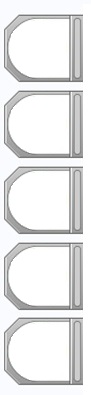
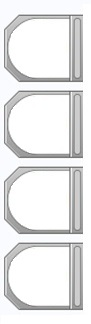
5个loadport变4个改动

Changed region(s): [[0.044, 0.0309, 0.9231, 0.9877]]

diff --git a/CMP/Views/Tabs/OperationTab/MainContentView.xaml b/CMP/Views/Tabs/OperationTab/MainContentView.xaml
@@ -99,7 +99,7 @@
                         <Image Source="/Assets/Images/OnlyFoup.png" Width="75" Height="75" HorizontalAlignment="Left" Canvas.Left="{Binding AllLoadPorts[1].DockValue}" Canvas.Top="86" VerticalAlignment="Center" Visibility="{Binding AllLoadPorts[1].IsVisibility}"/>
                         <Image Source="/Assets/Images/OnlyFoup.png" Width="75" Height="75" HorizontalAlignment="Left" Canvas.Left="{Binding AllLoadPorts[2].DockValue}" Canvas.Top="163" VerticalAlignment="Center" Visibility="{Binding AllLoadPorts[2].IsVisibility}"/>
                         <Image Source="/Assets/Images/OnlyFoup.png" Width="75" Height="75" HorizontalAlignment="Left" Canvas.Left="{Binding AllLoadPorts[3].DockValue}" Canvas.Top="238" VerticalAlignment="Center" Visibility="{Binding AllLoadPorts[3].IsVisibility}"/>
-                        <Image Source="/Assets/Images/OnlyFoup.png" Width="75" Height="75" HorizontalAlignment="Left" Canvas.Left="{Binding AllLoadPorts[4].DockValue}" Canvas.Top="313" VerticalAlignment="Center" Visibility="{Binding AllLoadPorts[4].IsVisibility}"/>
+                       
                     </Canvas>
                     <StackPanel Grid.Row="0" Grid.Column="1" Orientation="Horizontal" Grid.ColumnSpan="2">
                         <GroupBox Background="Transparent" hc:TitleElement.Background="{Binding EFEMRobot.HeadColor, Converter={StaticResource StringToBrushConverter}, FallbackValue='#2C66A7'}"

diff --git a/CMP/Views/Tabs/OperationTab/MainPageView.xaml b/CMP/Views/Tabs/OperationTab/MainPageView.xaml
@@ -169,7 +169,7 @@
                 <ItemsControl ItemsSource="{Binding AllLoadPorts}">
                     <ItemsControl.ItemsPanel>
                         <ItemsPanelTemplate>
-                            <UniformGrid Columns="5" />
+                            <UniformGrid Columns="4" />
                         </ItemsPanelTemplate>
                     </ItemsControl.ItemsPanel>
                     <ItemsControl.ItemTemplate>

diff --git a/CMP/Services/LoadPort/LoadPortManager.cs b/CMP/Services/LoadPort/LoadPortManager.cs
@@ -161,7 +161,7 @@ public class LoadPortManager
                 _loadPorts = new Dictionary<string, LoadPortData>();
 
                 // 初始化5个LoadPort
-                for (int i = 12; i < 17; i++)
+                for (int i = 12; i < 16; i++)
                 {
                     string portName = $"COM{i}";
                     var loadPort = new LoadPortData(portName, loadPortService);
